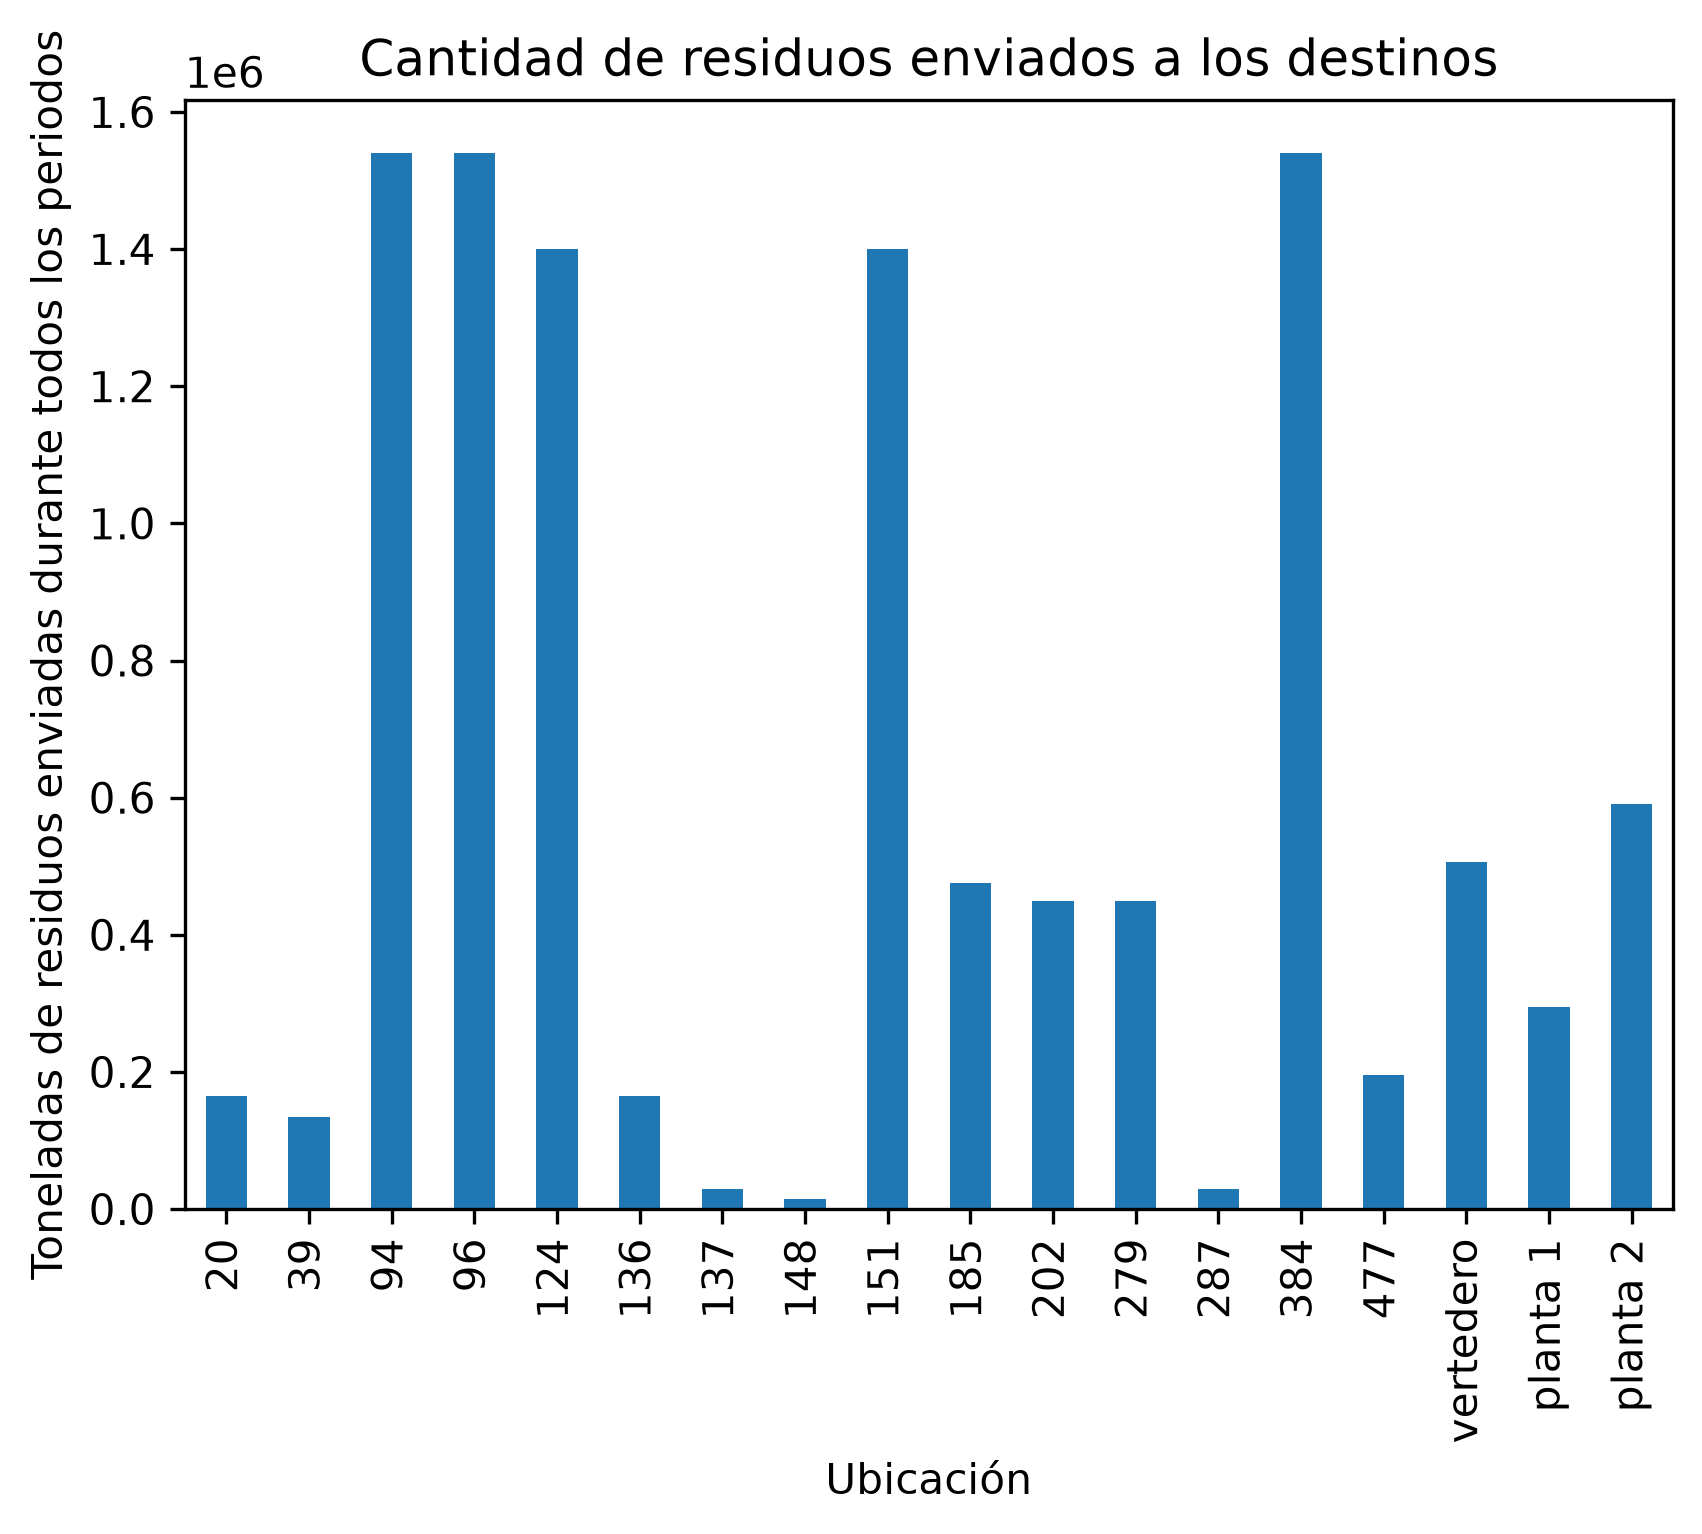
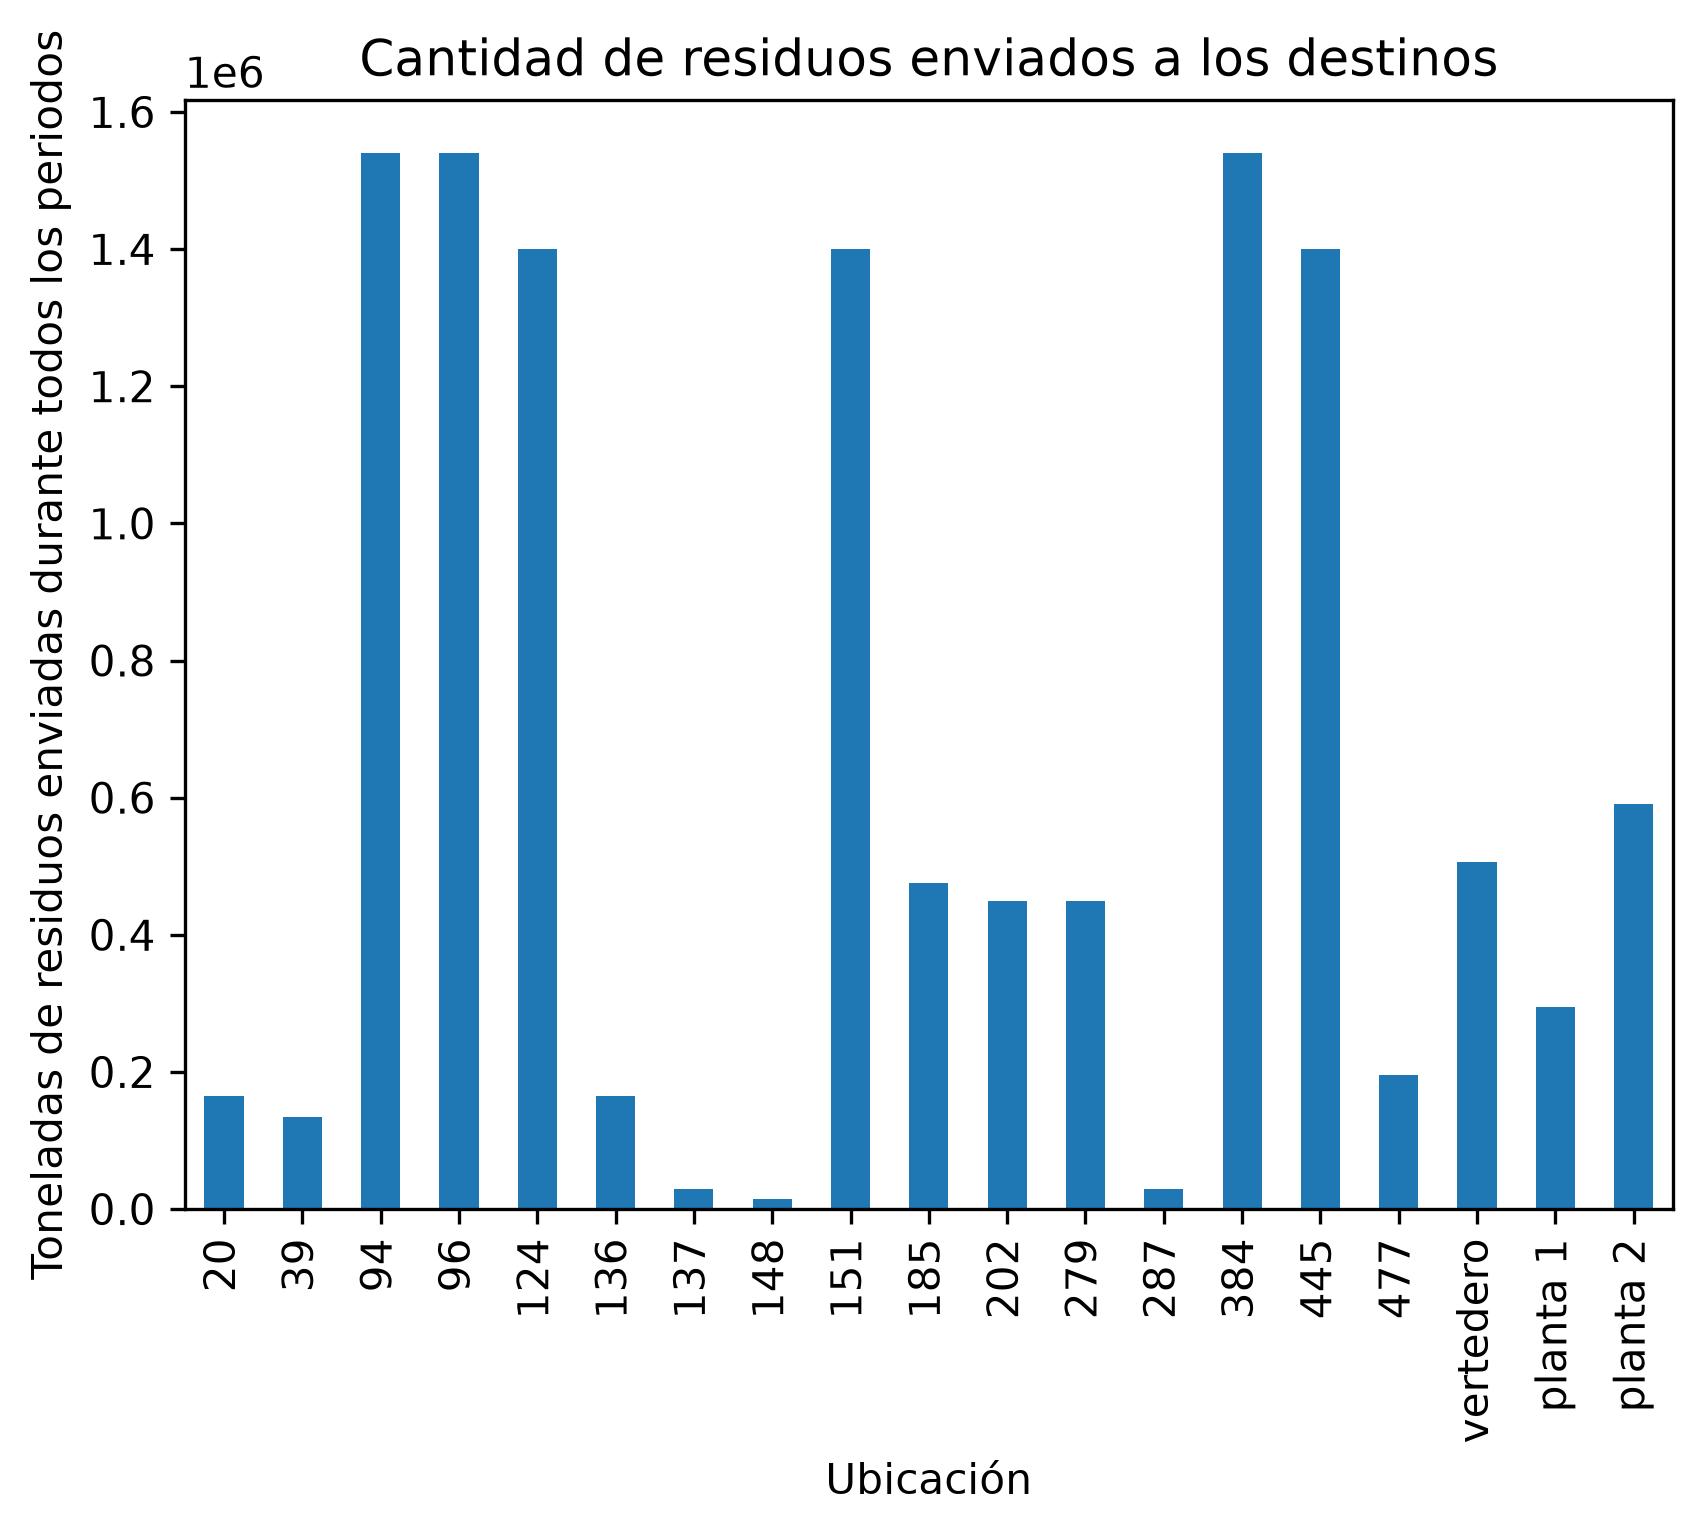
emergency

Changed region(s): [[0.1557, 0.0919, 0.9342, 0.9498], [0.9031, 0.7966, 0.9653, 0.9192]]

diff --git a/Script Python/graficos.py b/Script Python/graficos.py
@@ -62,7 +62,7 @@ def create_plants_vs_time(dfs: dict[str, pd.DataFrame], path: str, ks):
 
 def save_graphs(dfs: dict[str, pd.DataFrame], path: str) -> None:
     x = dfs["x"]
-    plantas_construidas = x[x["x"] == 1]
+    plantas_construidas = x[x["x"] > 0.5]
     ks = set(plantas_construidas["k"])
     print(f"Plantas construidas en {ks}")
 
